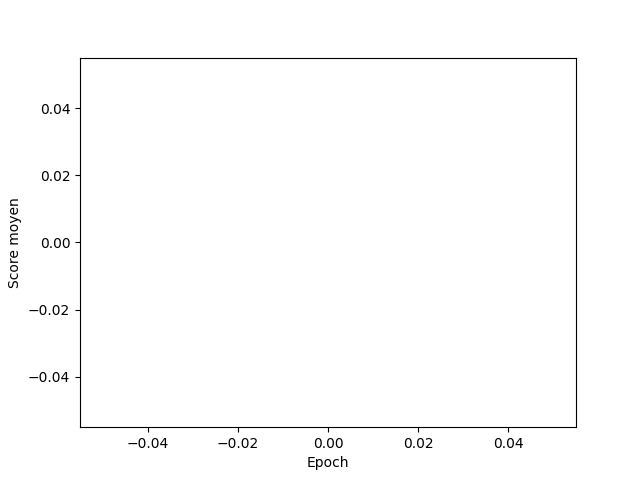
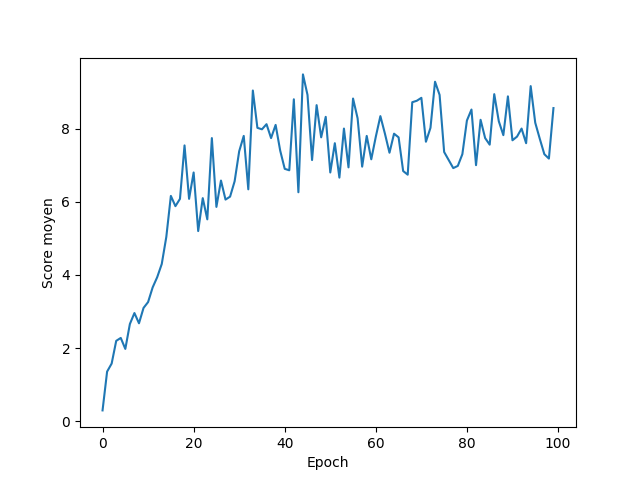
MAJ globale

diff --git a/bot/student.py b/bot/student.py
@@ -4,21 +4,38 @@ from bot.abstract import AbstractSnake
 from overrides import overrides
 from collections import deque
 
-class CleverSnake(AbstractSnake):
-    def __init__(self, width=15, height=15, batchsize=20, buffersize=100, copyfreq=20):
+class TrainingSnake(AbstractSnake):
+    """
+    Ce Snake override les méthodes principales pour permettre l'entrainement du DQN.
+    """
+    def __init__(self, width=15, height=15, batchsize=20, buffersize=100, copyfreq=20, learning_rate=0.01, discount_factor=0.8):
         super().__init__(width, height)
         # Epsilon-greedy policy
-        self.epsilon: float = 0.95
+        self.epsilon: float = 1
         # Q-function variables
         self.N: int = 0
         self.copyfreq: int = copyfreq
         self.Qfunc: QNetwork = QNetwork(inputsize=9)
         self.Qtarget: QNetwork = QNetwork(inputsize=9)
-        self.Qtrainer: Qtrainer = Qtrainer(self.Qfunc)
+        self.Qtrainer: Qtrainer = Qtrainer(self.Qfunc, learning_rate=learning_rate, discount_factor=discount_factor)
         # Buffers variables
         self.move: int = None
         self.batchsize: int = batchsize
         self.buffer: deque = deque([], maxlen=buffersize)
+        # Env variables
+        self.maxround = 300
+
+    def save(self, filename) -> None:
+        """
+        Enregistre le Qnetwork cible dans un fichier .pth
+        """
+        self.Qtarget.save(filename)
+    
+    def load(self, filename) -> None:
+        """
+        Récupère les poids du Qnetwork depuis un fichier .pth
+        """
+        self.Qfunc.load(filename)
 
     def getState(self) -> list[int]:
         """
@@ -52,10 +69,10 @@ class CleverSnake(AbstractSnake):
 
         #Partie distance
         distances = [yh, self.width-xh, self.height-yh, xh]
-        state_dist = [distances[self.direction.index]]
+        state_dist = [distances[self.direction.index] / max(self.height, self.width)]
 
         return state_apple + state_dir + state_dist
-    
+
     def playMove(self):
         """
         Joue le coup passé en argument:
@@ -83,8 +100,20 @@ class CleverSnake(AbstractSnake):
         else:
             self.move = self.Qfunc.getMove(state)
 
-        self.epsilon -= 0.002
+        self.epsilon = max(self.epsilon*0.995, 0.01)
         self.playMove()
+    
+    @overrides
+    def clear(self) -> None:
+        """
+        Remet à zéro le Snake.
+        """
+        self.body.clear()
+        self.body.append(self.start)
+        self.addApple()
+        self.round = 0
+        self.score = 0
+        self.epsilon = 0.1
     
     @overrides
     def run(self):
@@ -92,12 +121,13 @@ class CleverSnake(AbstractSnake):
         Joue une partie
         """
         self.clear()
+
         # Preprocesses phi1
         phi0 = None
         phi1 = self.getState()
         terminal = False
 
-        while not terminal:
+        while not terminal and self.round < self.maxround:
 
             phi0 = phi1 
             self.play(state=phi0)
@@ -106,20 +136,20 @@ class CleverSnake(AbstractSnake):
             # Puis on s'occupe d'attribuer une reward
             if self.getHead() == self.apple:
                 self.score += 1
+                self.maxround += 30
                 self.addApple()
                 # On encourage fortement la collecte de pommes.
-                reward = 10
+                reward = 1
             elif not self.checkLimit():
                 # On pénalise cette erreur.
                 terminal = True
-                reward = -10
+                reward = -1
             elif self.checkCollision():
                 # On pénalise cette erreur.
                 terminal = True
-                reward = -10
+                reward = -1
             else:
-                # On encourage très légèrement la survie.
-                reward = 0.1
+                reward = 0
                 self.retract()
 
             phi1 = self.getState()
@@ -139,3 +169,4 @@ class CleverSnake(AbstractSnake):
             # Enfin on gère l'affichage
             if not terminal:
                 self.show()
+            self.round += 1

diff --git a/test.py b/test.py
@@ -13,5 +13,6 @@ def testFinalSnake():
     snake.run()
 
 if __name__ == "__main__":
-    #testRandSnake()
+    testRandSnake()
+    input("?")
     testFinalSnake()
